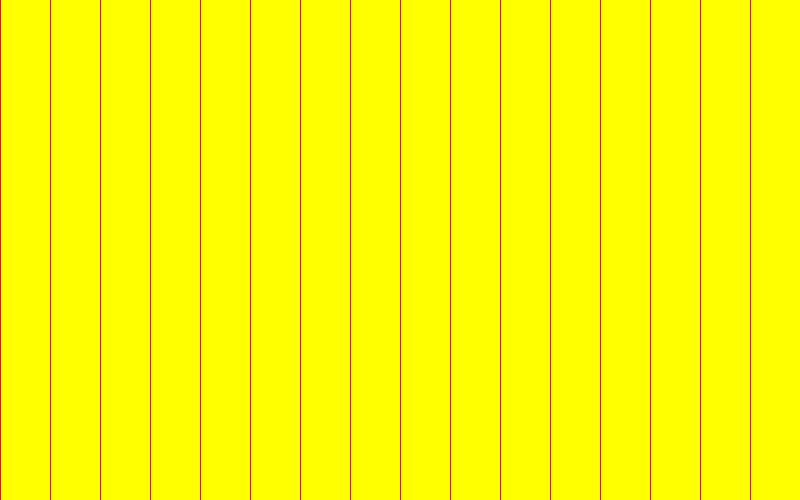
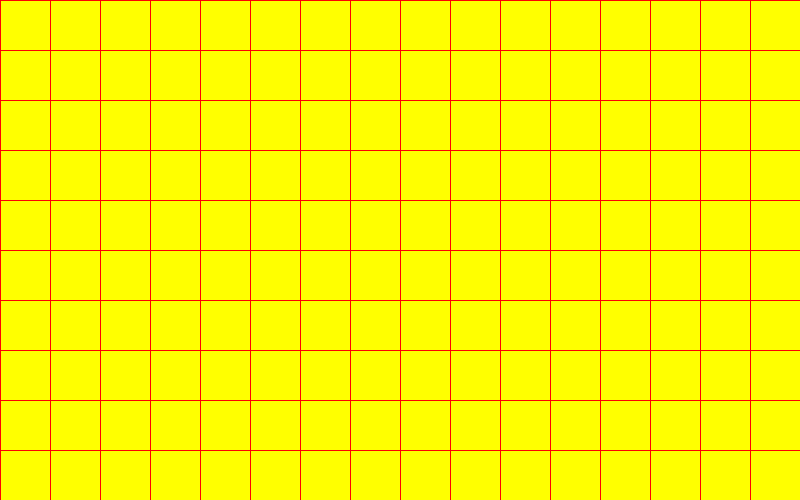
init

diff --git a/src/scene/Scene.java b/src/scene/Scene.java
@@ -1,0 +1,32 @@
+package scene;
+
+import geometries.Geometries;
+import geometries.Geometry;
+import lighting.AmbientLight;
+import primitives.Color;
+
+public class Scene {
+    public String name;
+    public Color color=new Color(java.awt.Color.BLACK);
+    public AmbientLight ambientLight=AmbientLight.NONE;
+    public Geometries geometries=new Geometries();
+
+    public Scene(String name) {
+        this.name = name;
+    }
+
+    public Scene setColor(Color color) {
+        this.color = color;
+        return this;
+    }
+
+    public Scene setAmbientLight(AmbientLight ambientLight) {
+        this.ambientLight = ambientLight;
+        return this;
+    }
+
+    public Scene setGeometries(Geometries geometries) {
+        this.geometries = geometries;
+        return this;
+    }
+}

diff --git a/src/lighting/AmbientLight.java b/src/lighting/AmbientLight.java
@@ -1,0 +1,22 @@
+package lighting;
+
+import primitives.Color;
+import primitives.Double3;
+
+public class AmbientLight {
+    private final Color intensity;
+    static public AmbientLight NONE=new AmbientLight(new Color(java.awt.Color.BLACK), Double3.ZERO);
+
+    public AmbientLight(Color intensity, Double3 kA) {
+        this.intensity = intensity.scale(kA);
+    }
+
+    public AmbientLight(Color intensity, double kA) {
+        this.intensity = intensity.scale(kA);
+    }
+
+    public Color getIntensity() {
+        return intensity;
+    }
+
+}

diff --git a/unittests/renderer/ImageWriterTest.java b/unittests/renderer/ImageWriterTest.java
@@ -20,11 +20,11 @@ public class ImageWriterTest {
                 imageWriter.writePixel(i,j,new Color(java.awt.Color.RED));
             }
         }
-       /** for(int j=0;j<imageWriter.getNx();j+=50) {
-            for(int i=0;i<imageWriter.getNy();i++) {
+       for(int j=0;j<imageWriter.getNy();j+=50) {
+            for(int i=0;i<imageWriter.getNx();i++) {
                 imageWriter.writePixel(i,j,new Color(java.awt.Color.RED));
             }
-        }**/
+        }
         imageWriter.writeToImage();
     }
 }
